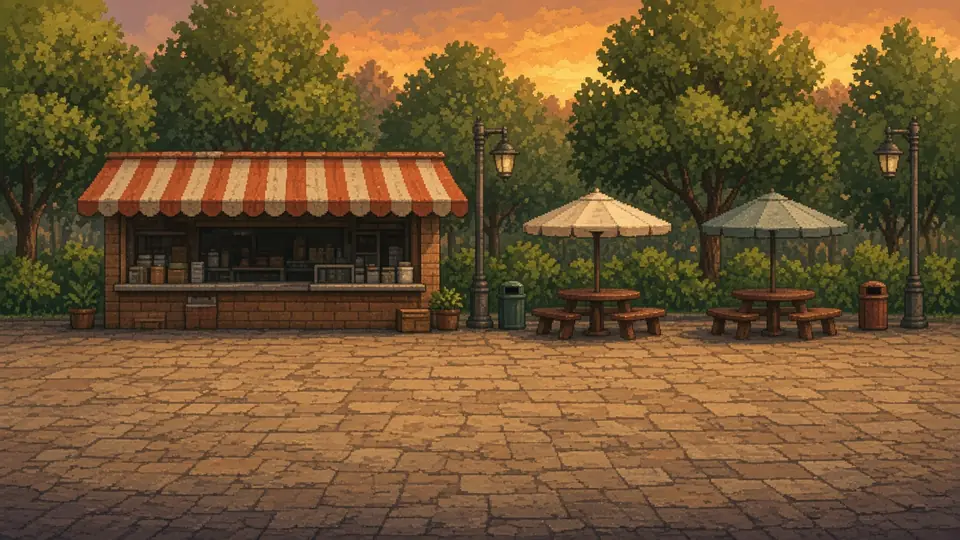
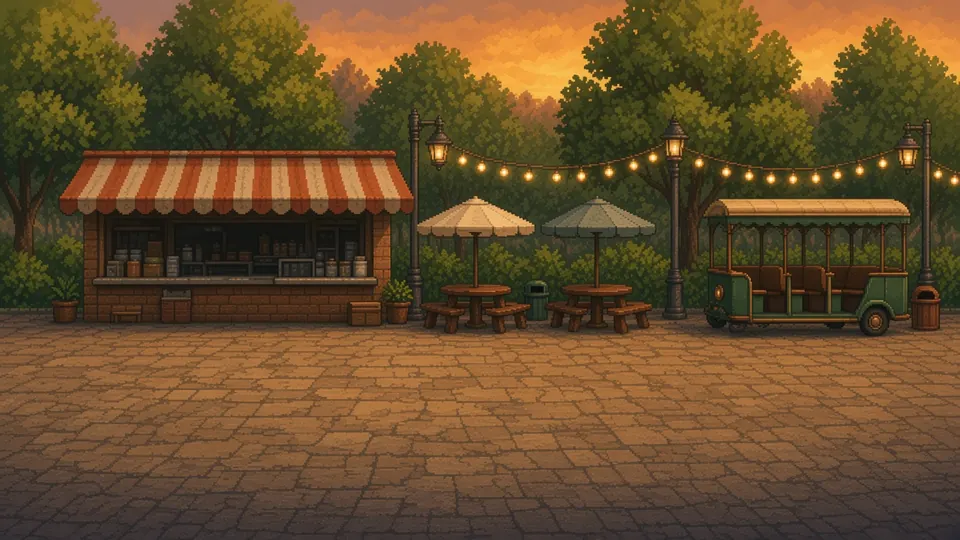
Paint string lights and tram into Food Court backdrop (#26)
Replace the Food Court plate with a generated scene that has the zoo
tram and string lights baked in, clear the old lamp-glow overlays, and
drop the unused separate bus/lights haz sprites.

diff --git a/tests/props.test.js b/tests/props.test.js
@@ -13,10 +13,10 @@ test('every sprite rect is sane and sign/plaque faces sit inside their sprite', 
   for (const [k, r] of Object.entries(meta)) { assert.ok(r.length === 4 || r.length === 8, k); assert.ok(r[2] > 8 && r[3] > 8, k); if (r.length === 8) assert.ok(r[4] >= 0 && r[5] >= 0 && r[4] + r[6] <= r[2] && r[5] + r[7] <= r[3], k + ' face'); }
   for (const s of ['sign_s', 'sign_m', 'sign_l', 'hsign', 'diner']) assert.equal(meta[s].length, 8, s);
 });
-test('every code-drawn prop kind used by the screens has a painted sprite (except water/bus/lights which stay code)', () => {
+test('every code-drawn prop kind used by the screens has a painted sprite (except water/ptext)', () => {
   const need = { sign: ['sign_s', 'sign_m', 'sign_l'], hsign: ['hsign'], bush: ['bush_a'], tree: ['tree'], stand: ['stand_a', 'stand_b'], bench: ['bench'], lamp: ['lamp'], cone: ['cone'], dumpster: ['dumpster'], hydrant: ['hydrant'], pipe: ['pipe'], planter: ['planter'], diner: ['diner'], girders: ['girders'], barrier: ['barrier'], plant: ['plant'], seal: ['seal'], cubicle: ['cubicle_a'], cooler: ['cooler'], door: ['door_a'], glass: ['glass'], table: ['table'], flag: ['flag'], cart: ['cart'], elevator: ['elevator'], curtain: ['curtain'], gatepost: ['gatepost'], sandbags: ['sandbags3', 'sandbags4'], jeep: ['jeep'], drums: ['drum_a', 'drum_b'], tent: ['tent'], tank: ['tank'], wire: ['wire'], bunker: ['bunker'], hq: ['hq'], fern: ['fern_a'], vines: ['vine_s', 'vine_m', 'vine_l'], rocks: ['rock_a'], pillar: ['pillar_t', 'pillar_s'], totem: ['totem'], glowflower: ['flower_a', 'flower_b'] };
   const kinds = new Set(); for (const k of Object.values(SCREENS)) for (const s of k.screens) for (const l of s.lm) kinds.add(l[0]);
-  for (const k of kinds) { if (k === 'bus' || k === 'ptext') continue; assert.ok(need[k], 'no sprite mapping for ' + k); for (const n of need[k]) assert.ok(meta[n], k + ' -> ' + n); }
+  for (const k of kinds) { if (k === 'ptext') continue; assert.ok(need[k], 'no sprite mapping for ' + k); for (const n of need[k]) assert.ok(meta[n], k + ' -> ' + n); }
 });
 test('the WELCOME sign is painted into the Entrance Plaza plate (no code-drawn sign on top)', () => { const z = SCREENS.zoo.screens[0]; assert.equal(z.plate, 'zoo-plaza'); assert.ok(!z.lm.some(l => /sign/.test(l[0]))); });
 test('mirrored plate reuse: no two neighbouring screens show the same plate image (flip counts as the same image)', () => {
@@ -27,8 +27,9 @@ test('Stage 2 car hazards are painted sprites (3 variants), not code shapes', ()
   assert.ok(fs.statSync(new URL('cars.webp', dir)).size < 60 * 1024);
   const src = fs.readFileSync(new URL('../js/hazdraw.js', import.meta.url), 'utf8'); assert.match(src, /A\.sp\[CARS/); assert.doesNotMatch(src, /hatchback/);
 });
-test('hazards, pickups, zoo tram and string lights are painted sprites in haz.json', () => {
-  const m = JSON.parse(fs.readFileSync(new URL('haz.json', dir))); for (const k of ['boulder', 'coconut', 'cabinet', 'searchlight', 'gem', 'rage', 'oneup', 'bus', 'lights']) { assert.ok(m[k], k); assert.ok(m[k][0] + m[k][2] <= 1024, k); }
+test('hazards and pickups are painted sprites in haz.json', () => {
+  const m = JSON.parse(fs.readFileSync(new URL('haz.json', dir))); for (const k of ['boulder', 'coconut', 'cabinet', 'searchlight', 'gem', 'rage', 'oneup']) { assert.ok(m[k], k); assert.ok(m[k][0] + m[k][2] <= 1024, k); }
+  assert.ok(!m.bus && !m.lights, 'tram/lights belong in the Food Court plate, not haz');
   assert.ok(fs.statSync(new URL('haz.webp', dir)).size < 80 * 1024);
   const src = fs.readFileSync(new URL('../js/hazdraw.js', import.meta.url), 'utf8'); assert.doesNotMatch(src, /'1UP'/); assert.doesNotMatch(src, /c\.arc\(0, 0, 14/);
 });

diff --git a/js/bgscreens.js b/js/bgscreens.js
@@ -24,7 +24,7 @@ export const SCREENS = {
     tiles: [0, 1, 2, 3, 0, 1, 2, 3, 0],
     screens: [
       { name: 'Entrance Plaza', plate: 'zoo-plaza', top: ID, bot: ID, lm: [], lights: [] },
-      { name: 'Food Court', plate: 'zoo-foodcourt', top: rgb(255, 232, 208), bot: rgb(255, 238, 218), warm: [255, 150, 40, 0.06], lm: [['bench', 250]], lights: [[60, 62, 26, [255, 190, 90], 1], [170, 62, 26, [255, 190, 90], 1]] },
+      { name: 'Food Court', plate: 'zoo-foodcourt', top: rgb(255, 232, 208), bot: rgb(255, 238, 218), warm: [255, 150, 40, 0.06], lm: [['bench', 250]], lights: [] },
       { name: 'Lion House', plate: 'zoo-lion', top: rgb(228, 196, 232), bot: rgb(238, 224, 236), lm: [['bench', 236]], lights: [], },
       { name: 'Primate World', plate: 'zoo-primate', top: rgb(190, 184, 232), bot: rgb(214, 214, 240), stars: 0.35, lm: [], lights: [] },
       { name: 'Night Path', plate: 'zoo-reptile', lift: 0.08, top: rgb(120, 128, 196), bot: rgb(158, 168, 214), stars: 0.9, fog: 0.22, lm: [['lamp', 36, '#ffd890']], lights: [] },

diff --git a/js/bgdraw.js b/js/bgdraw.js
@@ -95,8 +95,6 @@ const faceOf = s => s.r.length >= 8 ? [s.r[4], s.r[5], s.r[6], s.r[7]] : null;
 const pick = (x, n) => Math.abs(Math.round(x * 7 + n)) % n;
 const SPRL = ['', 'a', 'b', 'c'];
 const SP = {
-  bus(x, gy) { return !!spr('bus', x, gy, { dy: 4 }); }, // painted open-air zoo tram (assets/props/haz.webp)
-  lights(x, gy, w) { const s = A.sp.lights; return !!(s && spr('lights', x, gy, { mode: 'left', top: 46, sw: w * S / s.r[2] })); }, // painted string lights, stretched to the span
   sign(x, gy, t, bg, fg) { const tw = t.length * 6, nm = tw <= 26 ? 'sign_s' : tw <= 48 ? 'sign_m' : 'sign_l', s0 = A.sp[nm]; if (!s0) return false; const f = faceOf(s0);
     const sc = Math.max(0.55, Math.min(1, (tw + 12) / (f[2] / S))); // board only as wide as its lettering needs
     const r = spr(nm, x, gy, { dy: 2, tint: bg, face: f, sc }); const cx = r.x + (f[0] + f[2] / 2) / S * sc, cy = r.y + (f[1] + f[3] / 2) / S * sc; text(t, cx, cy + 3, fg); return true; },

diff --git a/tools/ai-art/build_hazards.py b/tools/ai-art/build_hazards.py
@@ -1,4 +1,4 @@
-"""Key + trim + despill the painted hazard / pickup / zoo prop sources (src_hazards/*.jpg, solid magenta bg) into
+"""Key + trim + despill the painted hazard / pickup sources (src_hazards/*.jpg, solid magenta bg) into
 assets/props/haz.webp + haz.json (3x game scale like the other painted props). Sizes are game px; js/hazdraw.js + js/bgdraw.js draw them at w/3 x h/3."""
 import os, json, numpy as np
 from PIL import Image
@@ -10,7 +10,7 @@ HERE = os.path.dirname(os.path.abspath(__file__)); OUT = os.path.join(HERE, '..'
 ITEMS = {
     'boulder': ('boulder', ('w', 34), False), 'coconut': ('coconut', ('w', 18), False), 'cabinet': ('cabinet', ('h', 40), False),
     'searchlight': ('searchlight', ('h', 50), False), 'gem': ('gem', ('h', 18), False), 'rage': ('rage', ('h', 22), True),
-    'oneup': ('oneup', ('h', 20), False), 'bus': ('bus', ('w', 112), False), 'lights': ('lights', ('w', 160), True),
+    'oneup': ('oneup', ('h', 20), False),
 }
 def build(src, size, full):
     a = load(os.path.join(HERE, 'src_hazards', src + '.jpg'))
